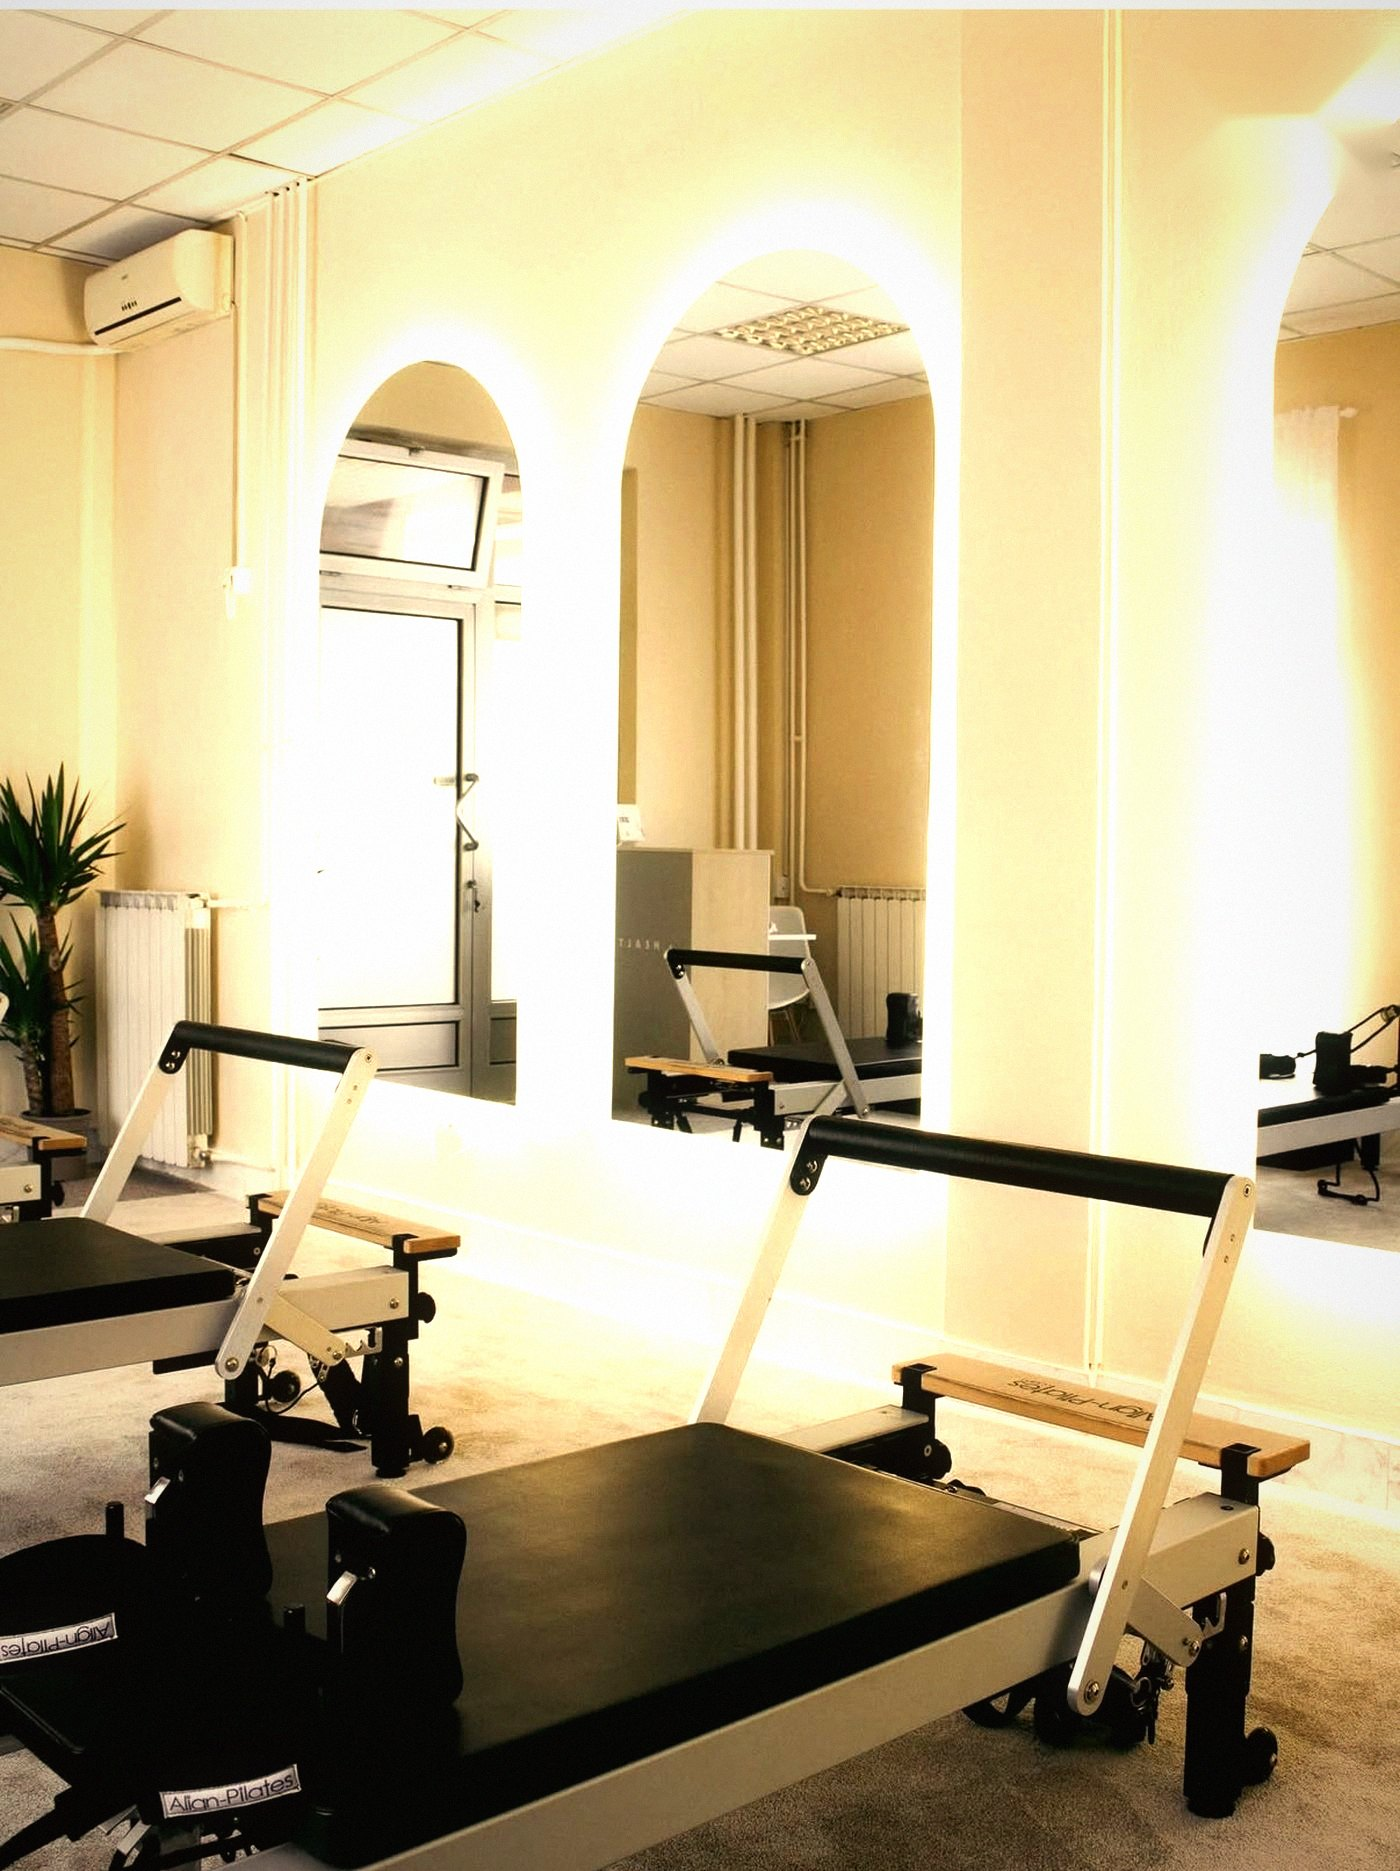
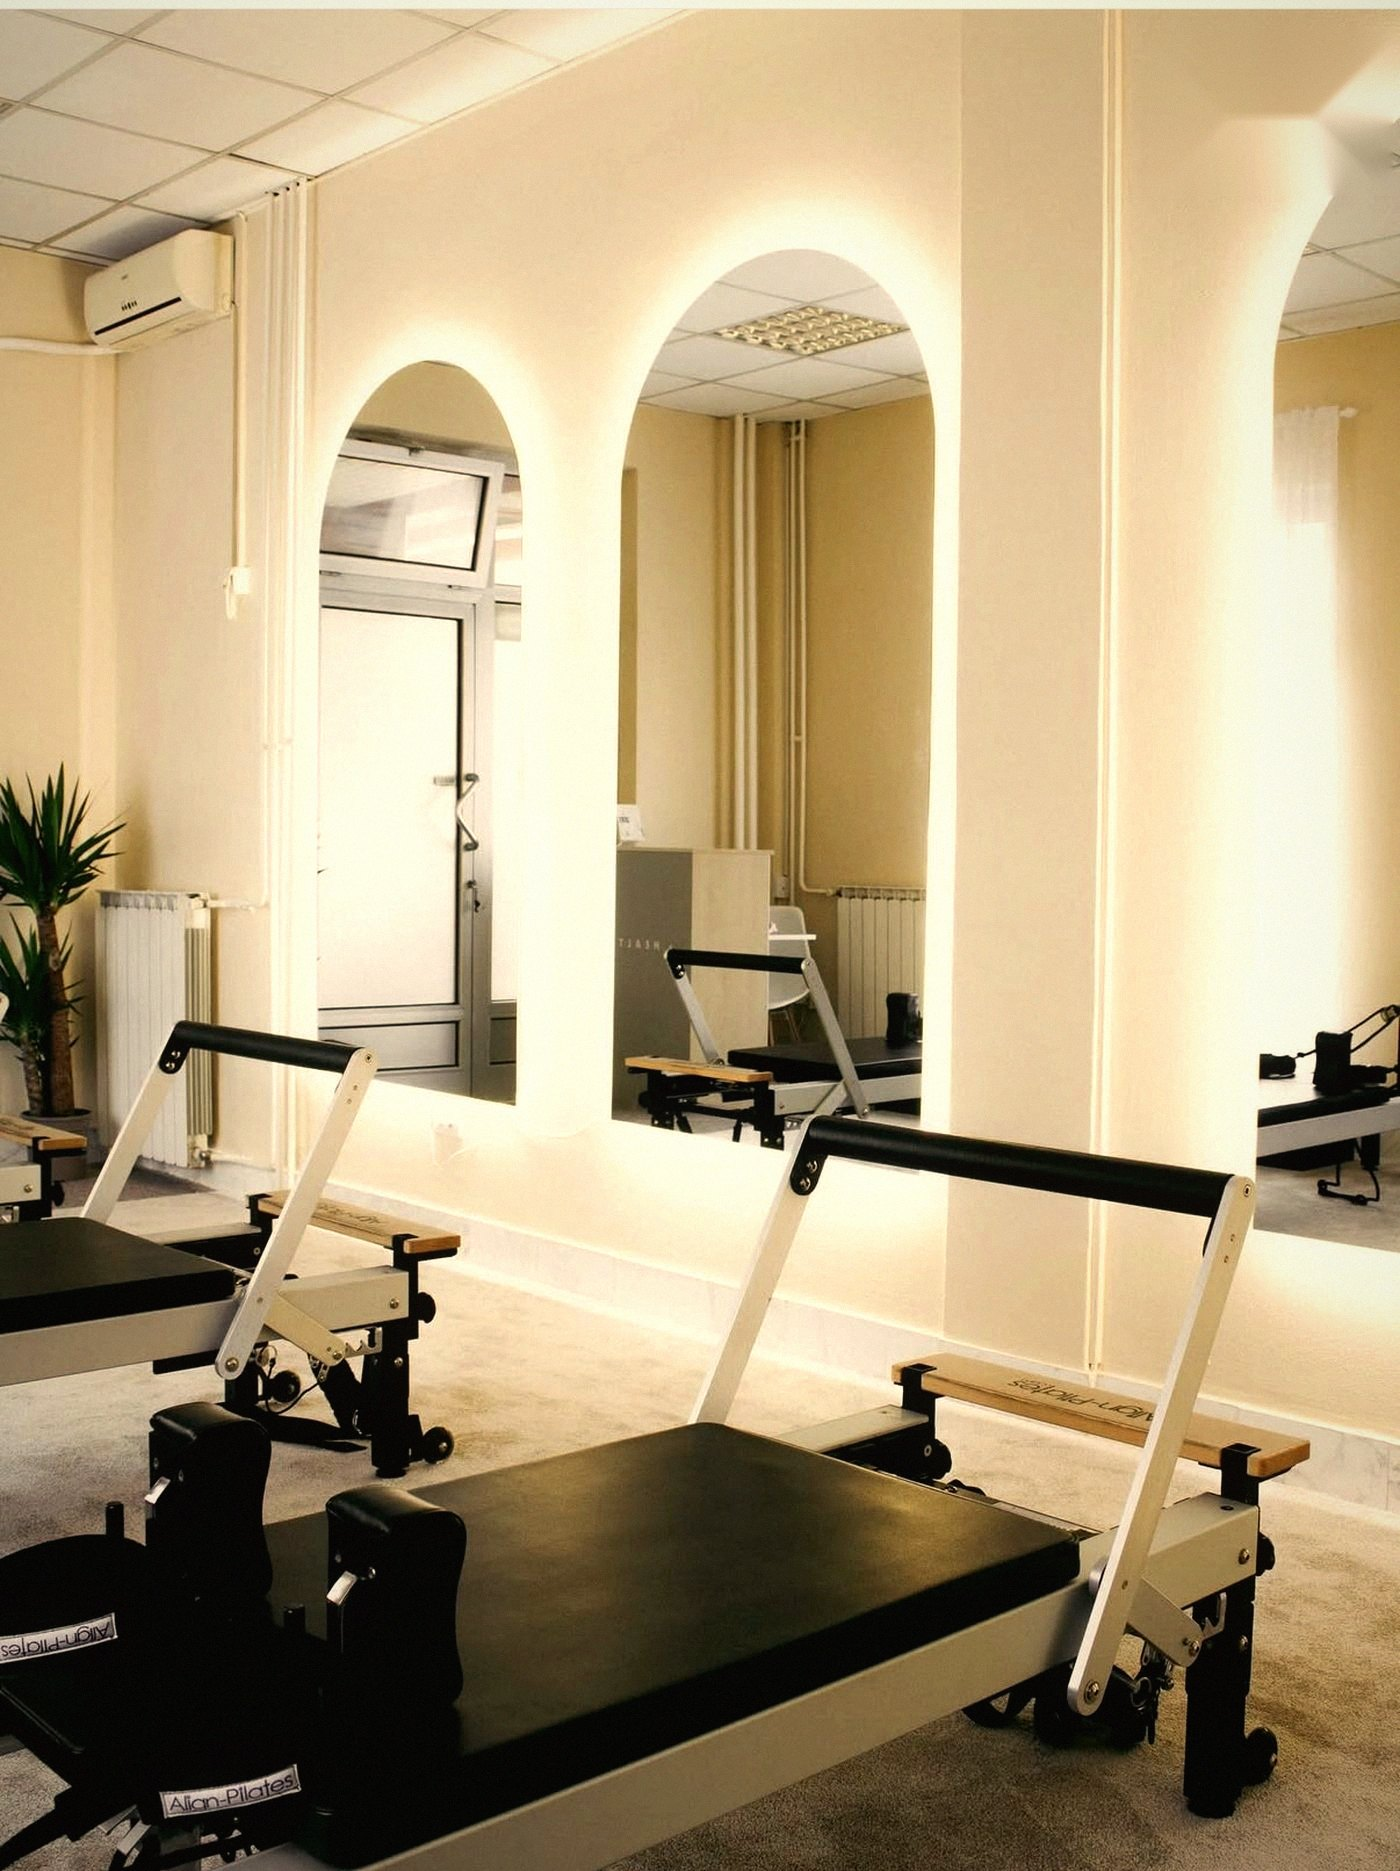
Smiren hero sa pravom fotografijom studija, bez duha, senki i opisa; kale diskretne
Claude-Session: https://claude.ai/code/session_016rbvAtb5nUWuUBdRbHMiaj

diff --git a/public/index.html b/public/index.html
@@ -67,9 +67,9 @@ a { color: var(--olive); text-decoration-color: rgba(92,98,62,.35); text-underli
 header.hero { padding-block: 26px 22px; display: grid; grid-template-columns: 1fr; gap: 18px; position: relative; }
 .hero-clip { overflow: hidden; }
 .hero-wide { position: absolute; inset: 0; pointer-events: none; z-index: 0; }
-.hero-wide .leaf { position: absolute; bottom: -6%; height: 112%; width: auto; opacity: .96; will-change: transform, opacity; transform-origin: 50% 100%; }
-.hero-wide .leaf.l { left: calc(50% - min(380px, 50vw) - min(16vw, 150px)); --dir: -1; }
-.hero-wide .leaf.r { right: calc(50% - min(380px, 50vw) - min(16vw, 150px)); --dir: 1; }
+.hero-wide .leaf { position: absolute; bottom: 2%; height: 62%; width: auto; opacity: .62; will-change: transform; }
+.hero-wide .leaf.l { left: calc(50% - min(380px, 50vw) - min(30vw, 330px)); }
+.hero-wide .leaf.r { right: calc(50% - min(380px, 50vw) - min(30vw, 330px)); transform: scaleX(-1); }
 .hero-wide .mist { position: absolute; top: 40px; width: min(60vw, 520px); height: min(60vw, 520px); border-radius: 50%; background: radial-gradient(circle, rgba(92,98,62,.28), rgba(92,98,62,0) 62%); will-change: transform; }
 .hero-wide .mist.l { left: calc(50% - min(380px, 50vw) - min(34vw, 320px)); }
 .hero-wide .mist.r { right: calc(50% - min(380px, 50vw) - min(34vw, 320px)); top: 180px; }
@@ -77,31 +77,13 @@ header.hero { padding-block: 26px 22px; display: grid; grid-template-columns: 1f
 .hero-wide .sun { position: absolute; left: 50%; top: 150px; width: min(120vw, 820px); aspect-ratio: 1; transform: translateX(-50%); border-radius: 50%;
   background: radial-gradient(circle, rgba(215,168,91,.55) 0%, rgba(215,168,91,.28) 28%, rgba(215,168,91,0) 62%); animation: breathe 9s ease-in-out infinite alternate; will-change: transform, opacity; }
 @keyframes breathe { from { transform: translateX(-50%) scale(.96); opacity: .85; } to { transform: translateX(-50%) scale(1.04); opacity: 1; } }
-/* senka lišća na zidu: pomera se sporo, kao na vetru */
-.hero-wide .shadow { position: absolute; top: -8%; width: min(90vw, 640px); height: auto; mix-blend-mode: multiply; opacity: .75; animation: sway 14s ease-in-out infinite alternate; will-change: transform; pointer-events: none; }
-.hero-wide .shadow.a { left: calc(50% - 560px); transform-origin: 50% 0; }
-.hero-wide .shadow.b { right: calc(50% - 600px); top: 10%; transform: scaleX(-1); animation-duration: 17s; animation-delay: -6s; }
-@keyframes sway { from { transform: var(--flip, none) rotate(-1.2deg) translate3d(0,0,0); } to { transform: var(--flip, none) rotate(1.4deg) translate3d(14px, 6px, 0); } }
-.hero-wide .shadow.b { --flip: scaleX(-1); }
-@media (max-width: 760px) { .hero-wide .shadow.a { left: -30vw; } .hero-wide .shadow.b { right: -40vw; } .hero-wide .sun { top: 120px; } }
-/* zemlja: tamna, topla traka sa vrednostima studija */
-.earth { padding-block: 26px 0; }
-.earth-panel { border-radius: 28px; padding: clamp(28px, 6vw, 48px) clamp(22px, 5vw, 44px); color: var(--paper); position: relative; overflow: hidden;
-  background: linear-gradient(160deg, #6b5240 0%, var(--earth) 45%, #3f3125 100%); box-shadow: 0 30px 70px -40px rgba(63,49,37,.8); }
-.earth-panel::before { content: ""; position: absolute; right: -18%; top: -55%; width: 70%; aspect-ratio: 1; border-radius: 50%; background: radial-gradient(circle, rgba(215,168,91,.5), rgba(215,168,91,0) 65%); }
-.earth-panel .eyebrow { color: rgba(215,168,91,.95); }
-.earth-panel h3 { font-family: var(--display); font-style: italic; font-weight: 400; text-transform: none; letter-spacing: 0; color: var(--paper); font-size: clamp(28px, 6vw, 40px); line-height: 1.1; margin: 8px 0 22px; text-wrap: balance; }
-.earth-panel ul { list-style: none; margin: 0; padding: 0; display: grid; grid-template-columns: repeat(3, 1fr); gap: 18px; }
-.earth-panel li b { display: block; font-family: var(--display); font-size: 22px; font-weight: 500; margin-bottom: 4px; }
-.earth-panel li span { font-size: 13px; color: rgba(248,243,232,.78); line-height: 1.5; }
-.earth-panel .sunline { width: 44px; height: 1px; background: var(--sun); margin-top: 26px; }
-@media (max-width: 560px) { .earth-panel ul { grid-template-columns: 1fr; gap: 14px; } }
+@media (max-width: 760px) { .hero-wide .sun { top: 120px; } }
 .arch, .hero-top, .tag { position: relative; z-index: 1; }
-.arch { box-shadow: 0 0 0 1px rgba(255,253,246,.9), 0 0 0 10px rgba(255,253,246,.35), 0 30px 70px -30px rgba(63,69,43,.5), 0 0 120px rgba(92,98,62,.18), inset 0 0 40px rgba(255,253,246,.45); }
+.arch { box-shadow: 0 0 0 1px rgba(255,253,246,.9), 0 0 0 10px rgba(255,253,246,.35), 0 30px 70px -30px rgba(63,69,43,.5), 0 0 120px rgba(92,98,62,.18); }
 @media (max-width: 760px) {
-  .hero-wide .leaf { height: 72%; bottom: 30%; opacity: .9; }
-  .hero-wide .leaf.l { left: -30vw; }
-  .hero-wide .leaf.r { right: -30vw; }
+  .hero-wide .leaf { height: 40%; bottom: 10%; opacity: .5; }
+  .hero-wide .leaf.l { left: -26vw; }
+  .hero-wide .leaf.r { right: -26vw; }
   .hero-wide .mist.l { left: -30vw; } .hero-wide .mist.r { right: -30vw; }
 }
 .hero-top { display: flex; justify-content: space-between; align-items: center; gap: 16px; }
@@ -109,20 +91,18 @@ header.hero { padding-block: 26px 22px; display: grid; grid-template-columns: 1f
 .account { display: flex; gap: 14px; font-size: 11px; letter-spacing: .2em; text-transform: uppercase; color: var(--ink-soft); }
 .account a, .account .link { color: var(--ink); background: none; border: 0; font: inherit; letter-spacing: inherit; text-transform: inherit; cursor: pointer; padding: 0; text-decoration: none; border-bottom: 1px solid var(--line); }
 .arch { position: relative; border-radius: 999px 999px 28px 28px; overflow: hidden; aspect-ratio: 4 / 5; max-height: 520px; width: 100%; background: var(--bg-deep);
-  box-shadow: 0 0 0 1px rgba(255,253,246,.9), 0 0 0 10px rgba(255,253,246,.35), 0 30px 70px -30px rgba(29,28,25,.45), inset 0 0 40px rgba(255,253,246,.45); }
-.arch img { position: absolute; inset: 0; width: 100%; height: 100%; object-fit: cover; object-position: 50% 30%; display: block; filter: saturate(.85) brightness(1.03); animation: settle 2.4s ease-out both; will-change: transform, opacity; transform: translateZ(0); }
-.arch img.blurred { filter: blur(9px) saturate(.85) brightness(1.03); transform: scale(1.1); opacity: 0; }
+  box-shadow: 0 0 0 1px rgba(255,253,246,.9), 0 0 0 10px rgba(255,253,246,.35), 0 30px 70px -30px rgba(29,28,25,.45), inset 0 0 0 1px rgba(255,253,246,.5); }
+.arch img { position: absolute; inset: -6% 0; width: 100%; height: 112%; object-fit: cover; object-position: 50% 40%; display: block; animation: settle 1.6s ease-out both; will-change: transform; }
 .arch { aspect-ratio: 4 / 5; }
 .motion { padding-block: 10px 0; }
 .motion-panel { margin: 0; position: relative; border-radius: 28px; overflow: hidden; aspect-ratio: 16 / 9; background: var(--bg-deep); box-shadow: 0 30px 70px -40px rgba(63,69,43,.6), 0 0 0 1px rgba(255,253,246,.8); }
-.motion-panel img { position: absolute; inset: 0; width: 100%; height: 100%; object-fit: cover; object-position: 50% 45%; display: block; filter: saturate(.85); will-change: transform, opacity; transform: translateZ(0); }
-.motion-panel img.blurred { filter: blur(16px) saturate(.85); transform: scale(1.1); }
+.motion-panel img { position: absolute; inset: 0; width: 100%; height: 100%; object-fit: cover; object-position: 50% 45%; display: block; }
 @media (max-width: 560px) { .motion-panel img { object-position: 55% 40%; } .arch img { object-position: 50% 25%; } }
 .motion-panel figcaption { position: absolute; left: 0; right: 0; bottom: 0; padding: 40px 26px 22px; font-family: var(--serif); font-style: italic; font-size: clamp(20px, 4.4vw, 28px); color: var(--paper); line-height: 1.25; background: linear-gradient(to top, rgba(35,38,28,.72), transparent); text-wrap: balance; }
 .motion-panel figcaption span { display: block; font-style: normal; font-size: .62em; letter-spacing: .26em; text-transform: uppercase; font-family: var(--sans); color: rgba(248,245,237,.85); margin-bottom: 6px; }
 @media (max-width: 560px) { .motion-panel { aspect-ratio: 4 / 5; border-radius: 22px; } }
 @keyframes settle { from { opacity: 0; } to { opacity: 1; } }
-.arch::after { content: ""; position: absolute; inset: 0; background: linear-gradient(to top, rgba(239,234,224,.96) 0%, rgba(239,234,224,.55) 26%, transparent 52%); }
+.arch::after { content: ""; position: absolute; inset: 0; background: linear-gradient(to top, rgba(235,226,210,.97) 0%, rgba(235,226,210,.6) 24%, transparent 48%); }
 .arch .brand { position: absolute; left: 0; right: 0; bottom: 24px; text-align: center; z-index: 1; padding: 0 16px; }
 .brand .eyebrow { font-size: 10px; letter-spacing: .36em; text-transform: uppercase; color: var(--ink-soft); margin: 0 0 8px; }
 .brand h1 { font-family: var(--display); font-weight: 400; font-size: clamp(44px, 11vw, 74px); line-height: .9; margin: 0; letter-spacing: .12em; color: var(--ink); text-transform: uppercase; }
@@ -332,18 +312,15 @@ footer span { display: block; font-family: var(--sans); font-style: normal; font
   <div class="hero-wide" aria-hidden="true">
     <div class="sun" aria-hidden="true"></div>
     <div class="mist l" data-speed="-.08"></div><div class="mist r" data-speed=".06"></div>
-    <img class="shadow a" src="/img/shadow.webp" alt="" width="900" height="1400" decoding="async">
-    <img class="shadow b" src="/img/shadow.webp" alt="" width="900" height="1400" decoding="async">
-    <img class="leaf l" src="/img/calla.webp" alt="" width="1206" height="1861" decoding="async" data-open="-1">
-    <img class="leaf r" src="/img/calla.webp" alt="" width="1206" height="1861" decoding="async" data-open="1">
+    <img class="leaf l" src="/img/calla.webp" alt="" width="1206" height="1861" decoding="async" data-speed=".10">
+    <img class="leaf r" src="/img/calla.webp" alt="" width="1206" height="1861" decoding="async" data-speed=".16">
   </div>
   <div class="hero-top">
     <img class="logo" src="/logo.svg" alt="Ritual Pilates Studio" width="64" height="64">
     <div class="account" id="account"></div>
   </div>
   <div class="arch">
-    <img src="/img/pokret.jpg" alt="" class="blurred" width="1400" height="1871" aria-hidden="true" decoding="async">
-    <img src="/img/pokret.jpg" alt="Pokret u studiju Ritual" width="1400" height="1871" fetchpriority="high" decoding="async" data-blur="hero">
+    <img src="/img/studio.jpg" alt="Studio Ritual: reformeri ispod lučnih prolaza" width="1400" height="1871" fetchpriority="high" decoding="async" data-speed="-.06">
     <div class="brand">
       <p class="eyebrow">Reformer pilates · Dorćol</p>
       <h1>Ritual<span>Pilates studio</span></h1>
@@ -354,22 +331,9 @@ footer span { display: block; font-family: var(--sans); font-style: normal; font
 </header></div>
 <section class="wrap motion" aria-label="Trening u studiju">
   <figure class="motion-panel">
-    <img src="/img/trening.jpg" alt="" class="blurred" width="1400" height="1871" aria-hidden="true" loading="lazy" decoding="async">
-    <img src="/img/trening.jpg" alt="Vežba na reformeru u studiju Ritual" width="1400" height="1871" loading="lazy" decoding="async" data-blur="focus">
+    <img src="/img/trening.jpg" alt="Vežba na reformeru u studiju Ritual" width="1400" height="1871" loading="lazy" decoding="async">
     <figcaption><span>Svaki pokret ima svrhu,</span> a svaka žena svoj prostor.</figcaption>
   </figure>
-</section>
-<section class="wrap earth" aria-label="Sunce i zemlja">
-  <div class="earth-panel">
-    <p class="eyebrow">Sunce i zemlja</p>
-    <h3>Energija koja greje, mir koji nosi.</h3>
-    <ul>
-      <li><b>Harmonija</b><span>Dah, pokret i misao u istom ritmu. Reformer vodi telo, ti vodiš pažnju.</span></li>
-      <li><b>Toplina</b><span>Mala grupa, do pet žena na času, i trener koji zna tvoje ime i tvoja leđa.</span></li>
-      <li><b>Spokoj</b><span>Pedeset pet minuta bez telefona i žurbe. Izlaziš lakša nego što si ušla.</span></li>
-    </ul>
-    <div class="sunline" aria-hidden="true"></div>
-  </div>
 </section>
 
 <nav class="tabs" aria-label="Glavni meni">
